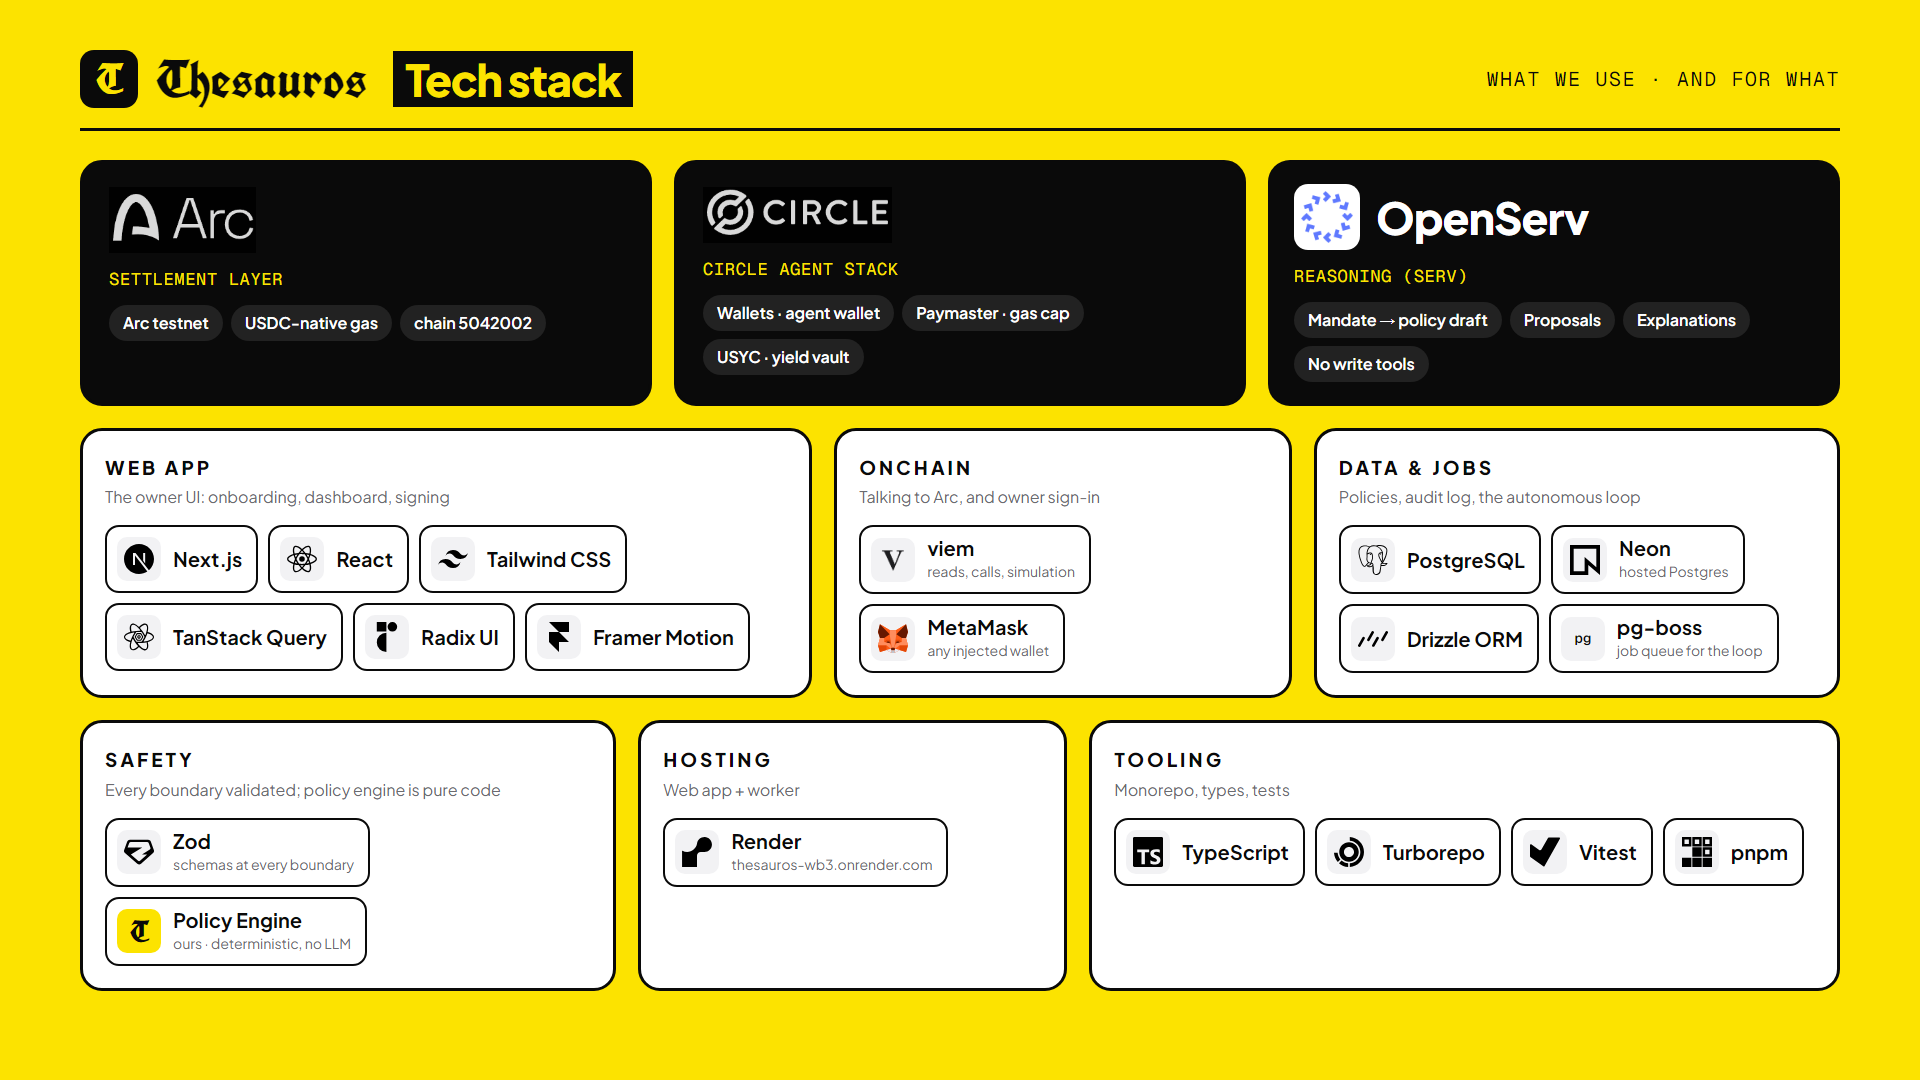
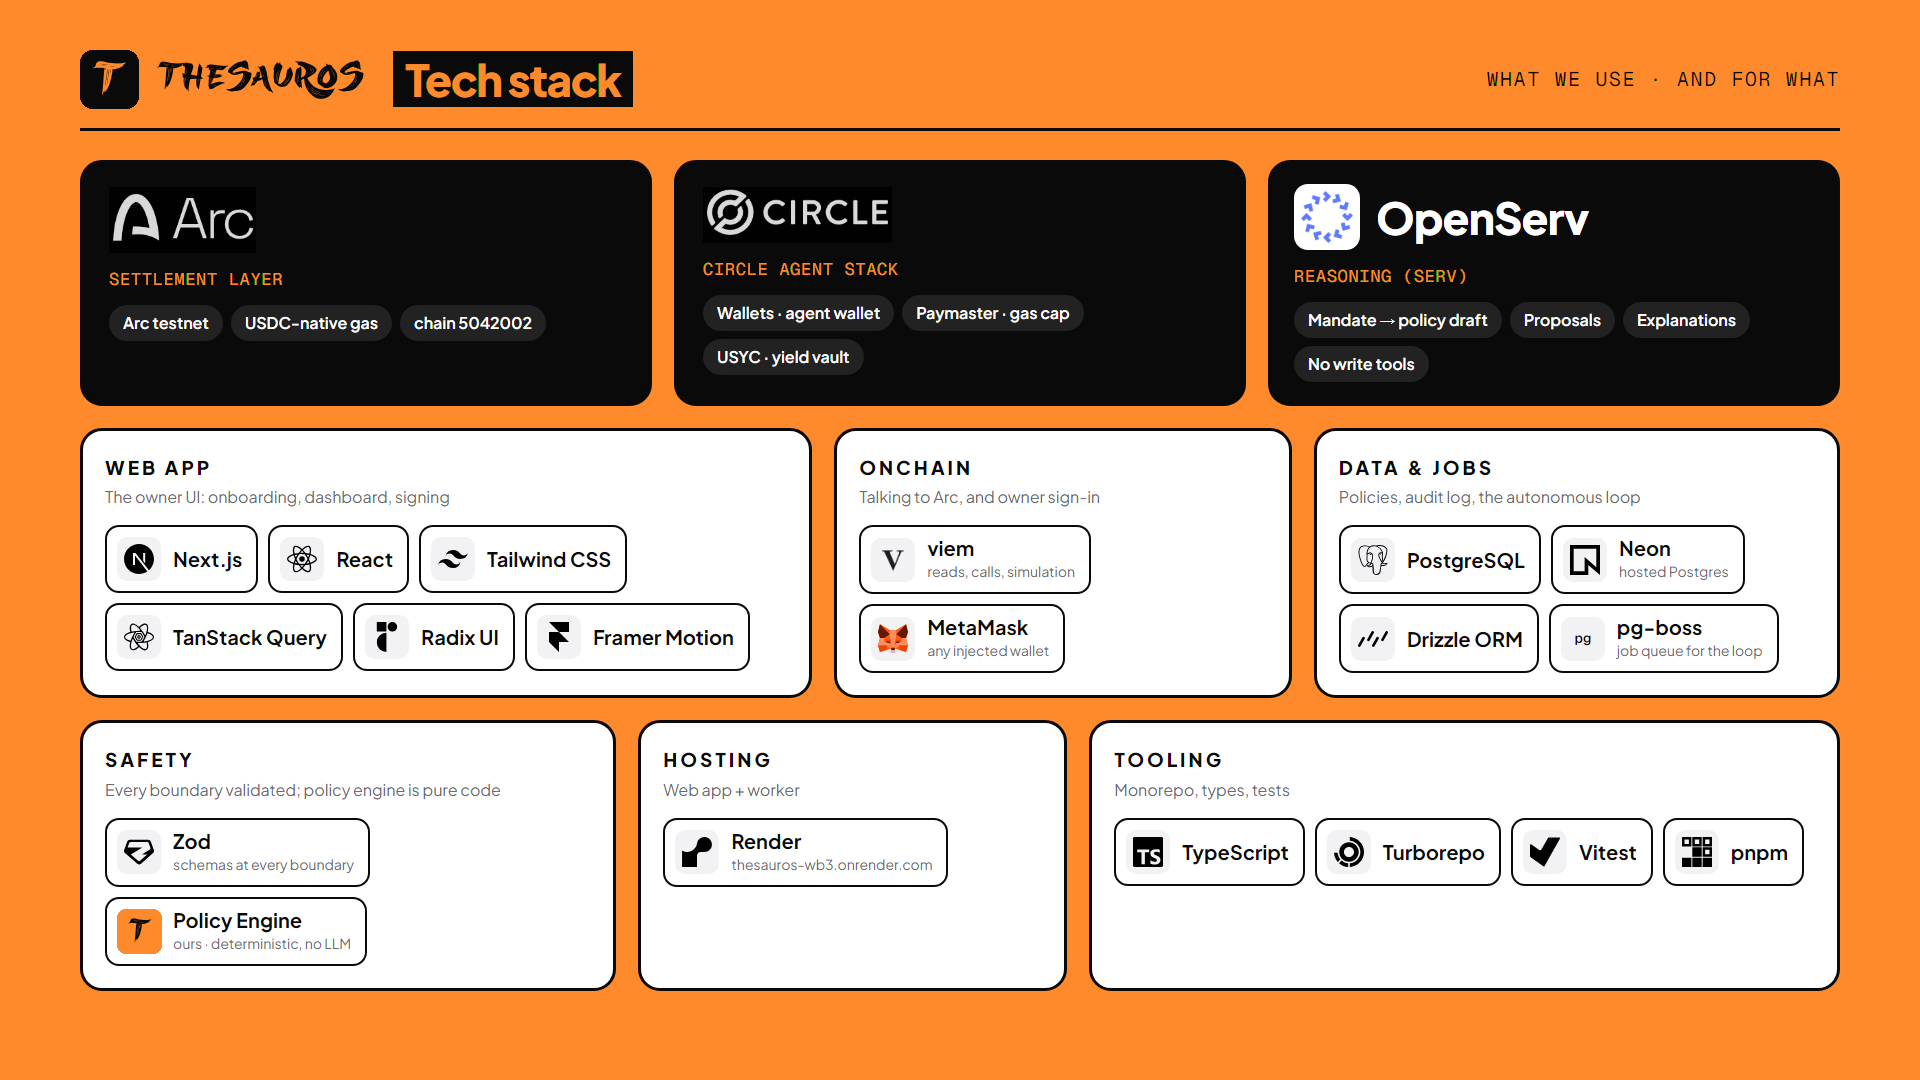
feat: brand refresh to orange accent and Sukajan Brush wordmark
Replaces the yellow + blackletter identity across the app, landing page,
logo and README images. The landing wordmark now sizes by viewport since
the brush face is wide and capitals-only. The font is the author's demo
(personal use only, no digits) and is limited to the wordmark and large
headlines; see D-026.

diff --git a/apps/web/app/globals.css b/apps/web/app/globals.css
@@ -1,9 +1,15 @@
 @import 'tailwindcss';
 
+@font-face {
+  font-family: 'Sukajan Brush';
+  src: url('/fonts/sukajan-brush.otf') format('opentype');
+  font-display: swap;
+}
+
 /* ===========================================================================
    Thesauros design tokens. Cool-grey ground (#f8f9fa), white cards on a hairline shadow, ink
-   #191c1d, and one brand yellow (#FCE300) used only for FILLED surfaces — buttons, badges, meter
-   fills, the active step — never as text on a light canvas, where yellow is illegible.
+   #191c1d, and one brand orange (#FF8A2B) used only for FILLED surfaces — buttons, badges, meter
+   fills, the active step — never as text on a light canvas (text uses burnt orange #B34700).
    Plus Jakarta Sans carries everything, headlines and money included; Geist Mono only
    machine data (addresses, hashes).
 
@@ -29,11 +35,11 @@
   --th-escalate-tint: #fdf0dc;
   --th-deny-tint: #ffdad6;
 
-  --th-accent: #fce300;
-  --th-accent-press: #e9d100;
-  --th-accent-soft: #fff6b3;
-  --th-on-accent: #191c1d;
-  --th-accent-ink: #191c1d;
+  --th-accent: #ff8a2b;
+  --th-accent-press: #e87710;
+  --th-accent-soft: #ffe9d6;
+  --th-on-accent: #1f1004;
+  --th-accent-ink: #b34700;
 
   --th-allow: #067a59;
   --th-allow-tint: #dcf3ea;
@@ -70,12 +76,12 @@
     --th-escalate-tint: #33260c;
     --th-deny-tint: #2e1210;
 
-    --th-accent: #fce300;
-    --th-accent-press: #e9d100;
-    --th-accent-soft: #3a3400;
-    --th-on-accent: #191c1d;
-    /* intentional asymmetry: yellow text is legible on black, illegible on white */
-    --th-accent-ink: #fce300;
+    --th-accent: #ff8a2b;
+    --th-accent-press: #e87710;
+    --th-accent-soft: #3a2108;
+    --th-on-accent: #1f1004;
+    /* lighter orange ink on dark grounds, burnt orange on light ones */
+    --th-accent-ink: #ffb070;
 
     --th-allow: #2fd9a6;
     --th-allow-tint: #0e2a21;
@@ -83,7 +89,7 @@
     --th-deny: #ff6a5e;
     --th-deny-fill: #d92d1e;
     --th-on-deny-fill: #ffffff;
-    --th-info: #fce300;
+    --th-info: #ffb070;
 
     --th-shadow-e1: 0 0 0 1px rgb(255 255 255 / 0.06);
     --th-shadow-e2: 0 -24px 48px -12px rgb(0 0 0 / 0.55);
@@ -112,11 +118,11 @@
   --th-escalate-tint: #fdf0dc;
   --th-deny-tint: #ffdad6;
 
-  --th-accent: #fce300;
-  --th-accent-press: #e9d100;
-  --th-accent-soft: #fff6b3;
-  --th-on-accent: #191c1d;
-  --th-accent-ink: #191c1d;
+  --th-accent: #ff8a2b;
+  --th-accent-press: #e87710;
+  --th-accent-soft: #ffe9d6;
+  --th-on-accent: #1f1004;
+  --th-accent-ink: #b34700;
 
   --th-allow: #067a59;
   --th-allow-tint: #dcf3ea;
@@ -151,12 +157,12 @@
   --th-escalate-tint: #33260c;
   --th-deny-tint: #2e1210;
 
-  --th-accent: #fce300;
-  --th-accent-press: #e9d100;
-  --th-accent-soft: #3a3400;
-  --th-on-accent: #191c1d;
-  /* intentional asymmetry: yellow text is legible on black, illegible on white */
-  --th-accent-ink: #fce300;
+  --th-accent: #ff8a2b;
+  --th-accent-press: #e87710;
+  --th-accent-soft: #3a2108;
+  --th-on-accent: #1f1004;
+  /* lighter orange ink on dark grounds, burnt orange on light ones */
+  --th-accent-ink: #ffb070;
 
   --th-allow: #2fd9a6;
   --th-allow-tint: #0e2a21;
@@ -164,7 +170,7 @@
   --th-deny: #ff6a5e;
   --th-deny-fill: #d92d1e;
   --th-on-deny-fill: #ffffff;
-  --th-info: #fce300;
+  --th-info: #ffb070;
 
   --th-shadow-e1: 0 0 0 1px rgb(255 255 255 / 0.06);
   --th-shadow-e2: 0 -24px 48px -12px rgb(0 0 0 / 0.55);
@@ -220,14 +226,14 @@
   --color-destructive-foreground: var(--th-on-deny-fill);
   --color-border: var(--th-line);
   --color-input: var(--th-line-strong);
-  /* accent-ink, not accent: a yellow ring is illegible on the white canvas */
+  /* accent-ink, not accent: an orange ring is illegible on the white canvas */
   --color-ring: var(--th-accent-ink);
   --color-success: var(--th-allow);
   --color-warning: var(--th-escalate);
 
   --font-sans: var(--font-jakarta), ui-sans-serif, system-ui, sans-serif;
   --font-mono: var(--font-geist-mono), ui-monospace, monospace;
-  --font-blackletter: var(--font-unifraktur), 'Pirata One', serif;
+  --font-brand: 'Sukajan Brush', ui-sans-serif, sans-serif;
 
   /* type scale */
   --text-label: 0.6875rem; /* 11px */

diff --git a/apps/web/app/layout.tsx b/apps/web/app/layout.tsx
@@ -1,23 +1,16 @@
 import type { ReactNode } from 'react';
-import { Geist_Mono, Plus_Jakarta_Sans, UnifrakturCook } from 'next/font/google';
+import { Geist_Mono, Plus_Jakarta_Sans } from 'next/font/google';
 import type { Metadata } from 'next';
 import { Providers } from '@/components/Providers';
 import './globals.css';
 
 // The landing page's own pairing: Plus Jakarta Sans for everything, Geist Mono only for machine
-// data (addresses, hashes, tx ids). UnifrakturCook is the brand's blackletter, used for the
-// wordmark and nothing else — the same mark the landing page carries.
+// data (addresses, hashes, tx ids). Sukajan Brush (capitals only, no digits) is the brand's
+// display face, used for the wordmark and nothing else — the same mark the landing page carries.
 const plusJakartaSans = Plus_Jakarta_Sans({
   subsets: ['latin'],
   display: 'swap',
   variable: '--font-jakarta',
-});
-
-const blackletter = UnifrakturCook({
-  subsets: ['latin'],
-  display: 'swap',
-  weight: '700',
-  variable: '--font-unifraktur',
 });
 
 const geistMono = Geist_Mono({
@@ -34,10 +27,7 @@ export const metadata: Metadata = {
 
 export default function RootLayout({ children }: { children: ReactNode }) {
   return (
-    <html
-      lang="en"
-      className={`${plusJakartaSans.variable} ${blackletter.variable} ${geistMono.variable}`}
-    >
+    <html lang="en" className={`${plusJakartaSans.variable} ${geistMono.variable}`}>
       <body className="min-h-dvh bg-ground font-sans text-body text-ink antialiased">
         <a
           href="#main"

diff --git a/apps/web/components/primitives.tsx b/apps/web/components/primitives.tsx
@@ -333,13 +333,13 @@ export function StatusPill({ state, label }: { state: PillState; label?: string 
   );
 }
 
-/** The brand: the blackletter T on yellow (brand/logo/thesauros-logo.svg, unchanged) and the
- * blackletter wordmark — the same identity the landing page carries. */
+/** The brand: the brush-lettered T on orange (public/logo/thesauros-logo.svg) and the brush
+ * wordmark — the same identity the landing page carries. */
 export function Wordmark({ className = '' }: { className?: string }) {
   return (
     <span className={`inline-flex items-center gap-2 ${className}`}>
       <img src="/logo/thesauros-logo.svg" alt="" width={28} height={28} className="size-7" />
-      <span className="font-blackletter text-section leading-none text-ink">Thesauros</span>
+      <span className="font-brand text-section leading-none text-ink">Thesauros</span>
     </span>
   );
 }

diff --git a/apps/web/components/shell/TabBar.tsx b/apps/web/components/shell/TabBar.tsx
@@ -19,7 +19,7 @@ export const TABS: readonly { href: string; label: string; icon: IconComponent }
 export const isActiveTab = (pathname: string, href: string): boolean =>
   href === '/app' ? pathname === '/app' : pathname === href || pathname.startsWith(`${href}/`);
 
-/** Mobile: frosted bottom tab bar, the active icon sits in a yellow pill. Desktop (lg): a left rail. */
+/** Mobile: frosted bottom tab bar, the active icon sits in a orange pill. Desktop (lg): a left rail. */
 export function TabBar({ pending }: { pending: number }) {
   const pathname = usePathname();
   return (

diff --git a/apps/web/components/onboarding/OnboardingFlow.tsx b/apps/web/components/onboarding/OnboardingFlow.tsx
@@ -15,7 +15,7 @@ import { MandateStep, MeetStep, WalletStep } from './steps';
 
 const TOTAL_STEPS = 4;
 
-/** Back arrow, a segmented progress rail (done = ink, current = yellow), "Step n of 4". Reached
+/** Back arrow, a segmented progress rail (done = ink, current = orange), "Step n of 4". Reached
  * segments are buttons back to that step. */
 export function StepProgress({
   current,

diff --git a/docs/PROGRESS.md b/docs/PROGRESS.md
@@ -358,6 +358,25 @@ it isn't part of the Phase 0 gate but is needed for `pnpm test`'s DB-backed suit
 
 ## Decisions (ADR-lite)
 
+### D-026 — Brand refresh: orange accent and Sukajan Brush display face (supersedes the yellow + blackletter identity in D-020/D-024)
+
+The accent is now orange `#FF8A2B` (was yellow `#FCE300`) and the wordmark/logo "T" use the Sukajan
+Brush display face (was UnifrakturCook blackletter). Still filled surfaces only, never text on a
+light canvas: light mode uses burnt orange `#B34700` for text/links (5.2:1 on the ground), dark mode
+`#FFB070`; dark ink `#1F1004` on orange fills is 7.9:1. Verdict colours (allow/escalate/deny) are
+unchanged, and orange was chosen over green precisely so the brand colour never reads as the
+"allowed" signal. Body text stays Plus Jakarta Sans, machine data Geist Mono.
+
+- The font file (`apps/web/public/fonts/sukajan-brush.otf`) is the author's **demo**, licensed for
+  personal use only, and contains capitals only with **no digits or symbols** (they draw blank). It is
+  therefore used for the wordmark and large landing headlines only — never for amounts or numbers.
+  Commercial/brand use needs the author's paid licence before this ships publicly.
+- Token names changed with the palette: landing `brand-yellow` → `brand-accent`,
+  `font-brand-blackletter` → `font-brand-display`, app `--font-blackletter` → `--font-brand`.
+- The logo SVGs, the logo PNG exports, and the three README images (`docs/assets/`) were rebuilt to
+  match. The README images are recoloured/overpainted from the previous yellow originals, not
+  regenerated from design source.
+
 ### D-024 — App UI replaced with the Stitch "Landing Page Recreation" screens
 
 The whole authenticated app (shell, dashboard, fund sheet, freeze modal, 4-step onboarding, activity,
